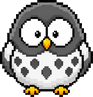
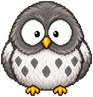
fix: みみぞうの輪郭と羽を細かなドット絵に揃える

diff --git a/tests/character-asset-quality.spec.ts b/tests/character-asset-quality.spec.ts
@@ -6,14 +6,14 @@ const assetDirectory = new URL("../public/assets/", import.meta.url);
 const sheets = [...new Set(Object.values(ACTION_ASSET_NAMES))].filter((name): name is string => Boolean(name));
 
 describe("character sprite transparency", () => {
-  it.each([...sheets, WALK_ASSET_NAME, "etokichi-comforting-maine-coon-pixel.webp"])(
+  it.each([...sheets, WALK_ASSET_NAME, "etokichi-comforting-maine-coon-pixel.webp", "mimizou-pixel.png"])(
     "removes the backing and keeps each frame inside its cell: %s",
     async (name) => {
       const { data, info } = await sharp(decodeURIComponent(new URL(name, assetDirectory).pathname))
         .ensureAlpha()
         .raw()
         .toBuffer({ resolveWithObject: true });
-      const columns = name === "etokichi-comforting-maine-coon-pixel.webp" ? 1 : 3;
+      const columns = name === "etokichi-comforting-maine-coon-pixel.webp" || name === "mimizou-pixel.png" ? 1 : 3;
       const rows = name === WALK_ASSET_NAME ? 4 : name === "etokichi-watering-directions-pixel.webp" ? 2 : 1;
       const width = info.width / columns;
       const height = info.height / rows;

diff --git a/src/content/updates.ts b/src/content/updates.ts
@@ -10,6 +10,11 @@ export interface UpdateEntry {
 /** 新しい更新を先頭に追加する。日付は変更をまとめた日。 */
 export const UPDATES: readonly UpdateEntry[] = [
   {
+    id: "2026-09-12-3",
+    date: "2026-09-12",
+    changes: ["みみぞうの輪郭と羽の陰影を、ほかのキャラクターに馴染む細かなドット絵に整えました。"],
+  },
+  {
     id: "2026-09-12-2",
     date: "2026-09-12",
     changes: [

diff --git a/docs/mimizou-imagegen.md b/docs/mimizou-imagegen.md
@@ -1,5 +1,51 @@
 # みみぞうの画像生成記録
 
+## 現行素材: 細かな輪郭と羽の陰影
+
+組み込みimagegenで描き直し、丸い頭・大きな白い目・灰白の体・黄色いくちばしと足を保った。旧素材の太い輪郭と大きな陰影の段差を、細かな羽の陰影へ置き換えた。
+
+- 原画: `assets-src/mimizou-pixel.png`。1254×1254px、マゼンタ単色背景。
+- 配信素材: `public/assets/mimizou-pixel.png`。従来と同じ93×97pxの透過PNG。
+- `pnpm assets:normalize` で左111・上109から1030×1039pxを切り出し、既存のマゼンタ透過処理を適用してからLanczosで縮小する。キャラの外接矩形は左123・上121〜右1128・下1135で、切り出しには境界保護用の余白を含めた。
+- 表示高さ48.5と窓辺・星見の配置、フキダシの位置計算は変更しない。
+- 初回の透過指定は市松模様を生成したため、背景だけをマゼンタへ再編集した。モデル名はツールから公開されていない。
+
+### 描き直しプロンプト
+
+画像1は旧みみぞう、画像2は `decor-cat-loaf-pixel.webp`、画像3は `etokichi-walk-pixel-v2.webp`。
+
+```text
+Use case: style-transfer. Image 1 is EDIT TARGET, the Mimizou owl single game sprite. Images 2 and 3 are ONLY fine pixel density and delicate contour style references, do not add cat or star. Redraw the owl with much finer pixel-art feather shading and thin nuanced dark grey contours, replacing thick black stepped edges and large flat feather blobs. Preserve its identity EXACTLY: round smooth head WITHOUT ear tufts or sticking-up hair, round compact grey-and-white body, two very large circular white eyes with tiny black pupils looking ahead, tiny yellow beak, grey wings at sides, pale belly with sparse darker feather marks, tiny yellow feet, front-facing upright neutral curious pose. Keep same proportions, circular eye size, overall silhouette and greys/white/yellow palette. Fine cozy pixel art matching the reference cat, not realistic, not smooth vector, not simply enlarged chunky pixels. ONE full-body owl centered on near-square canvas, minimal clear padding, feet and all edges fully visible. Genuine transparent alpha background, no checkerboard pattern, no shadow, no scenery, no text. High-resolution master suitable for downsampling into a small game sprite.
+```
+
+### 背景の再編集プロンプト
+
+```text
+Precise background edit only. Keep owl EXACTLY unchanged, every feather, eyes, pupils, shape, size, position, grey palette, yellow beak and feet. Replace ALL grey and white checkerboard surrounding owl with perfectly uniform solid RGB(255,0,255) #ff00ff magenta background for game chroma key. Include gaps between and under feet. Do not replace white feathers or white eyes. No checkerboard, no shadow, no additional elements. Keep same square framing and resolution.
+```
+
+### 検証
+
+- みみぞうを使う訪問・見送り・星見を390px幅と1280px幅で撮影し、輪郭・透過・配置を確認。実行時例外なし。
+- 素材品質テストへみみぞうを追加し、マゼンタの残留・端での切れ・大きな欠けを検査。`pnpm check` は516テスト、型検査、整形、本番ビルドが成功。既存Lint警告3件。
+- 素材変換を再実行し、みみぞうの配信PNGのSHA-256が一致した。
+- 撮影APIは公式の [Page.captureScreenshot](https://chromedevtools.github.io/devtools-protocol/tot/Page/#method-captureScreenshot) と [Runtime.evaluate](https://chromedevtools.github.io/devtools-protocol/tot/Runtime/#method-evaluate) で確認した。
+
+### 他素材の描き直し候補
+
+配信画像の目視比較による優先度。以下の画像は今回変更していない。
+
+| 優先度 | 素材 | 理由 |
+| --- | --- | --- |
+| 高 | `etokichi-sleep-tucked-pixel.png`、`etokichi-sleep-covered-pixel.png`、`etokichi-sleep-kicked-pixel.png` | 布団まわりの寝姿3点。輪郭の段差が大きく、陰影が平坦。 |
+| 中 | `etokichi-window-nap-star-book-pixel.png` | 窓辺・クーンちゃん枕で共用する寝姿。本や輪郭が粗い。 |
+| 中 | `decor-cat-sofa-curled-compact-pixel.webp` | ソファーのクーン。原素材60×75pxを120×150pxへ拡大しており、通常姿より輪郭が粗くぼやける。 |
+| 低 | `etokichi-sleep-pixel.webp` | 既定の寝姿。新しい寄りかかり寝姿より輪郭が太いが、上記ほど目立たない。 |
+
+タツヲ4点・マサハル・sunagimo・通常のクーンは十分に細かな描き込みがあり、優先的な描き直しは不要と判断した。
+
+## 旧素材の制作記録
+
 組み込みimagegenで旧画像を外見参照に描き直した。モデル名はツールから公開されていない。
 
 - 原素材: `assets-src/mimizou-pixel.png`
